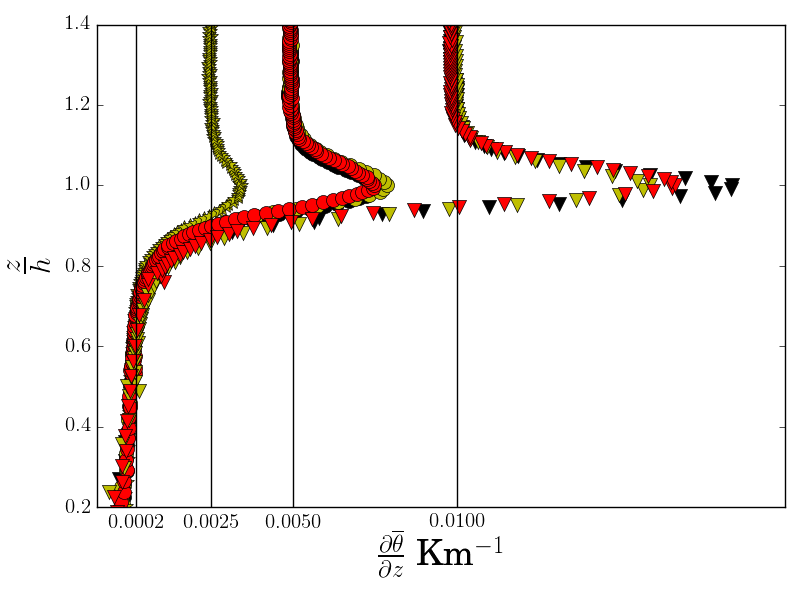
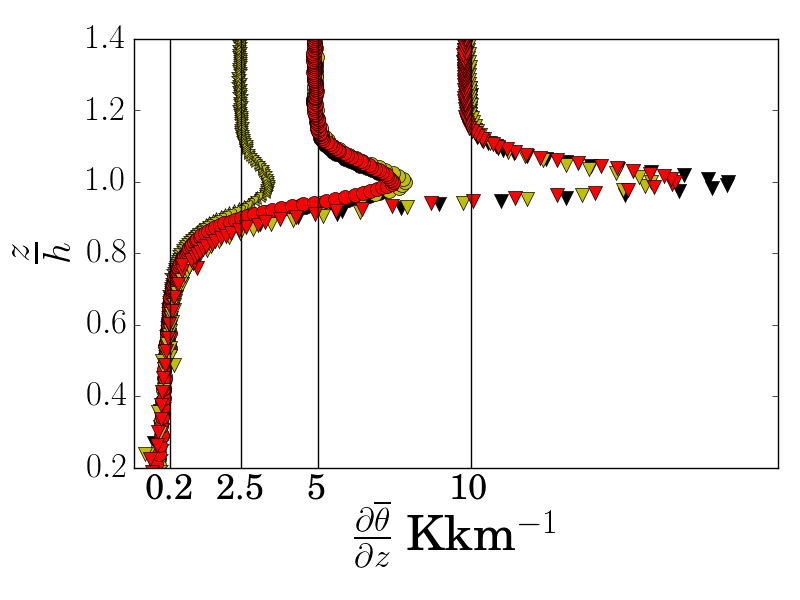
redid Figure 8 a, reordered fig 8 ie added more minipages

Changed region(s): [[0.0, 0.03, 1.0, 0.96]]

diff --git a/nchap_sub.tex b/nchap_sub.tex
@@ -562,23 +562,42 @@ The importance of $\gamma$ is revealed again as the curves representing Equation
 \begin{figure}[htbp]
 \begin{minipage}[b]{0.5\linewidth}
          
-        \subfloat[]{\label{main:a}
+        \subfloat[]{\label{main:}
                 \includegraphics[scale=.3]{figures/theta_grad_profs}}\\
-        \subfloat[]{\label{main:c}
+%        \subfloat[]{\label{main:}
+%                \includegraphics[scale=.3]{figures/scaleddeltahinvri}}\\
+                     
+\end{minipage}             
+\quad
+\begin{minipage}[b]{0.5\linewidth}
+        \subfloat[]{\label{main:}        
+         
+                \includegraphics[scale=.3]{figures/scaled_theta_grad_profs}}\\      
+%        \subfloat[]{\label{main:}          
+          
+%                \includegraphics[scale=.3]{figures/loglog_scaleddeltahinvri_4}}\\      
+       
+        \end{minipage}
+\begin{minipage}[b]{0.5\linewidth}
+         
+%        \subfloat[]{\label{main:}
+%                \includegraphics[scale=.3]{figures/theta_grad_profs}}\\
+        \subfloat[]{\label{main:}
                 \includegraphics[scale=.3]{figures/scaleddeltahinvri}}\\
                      
 \end{minipage}             
 \quad
 \begin{minipage}[b]{0.5\linewidth}
-        \subfloat[]{\label{main:b}          
+%        \subfloat[]{\label{main:}        
          
-                \includegraphics[scale=.3]{figures/scaled_theta_grad_profs}}\\      
-        \subfloat[]{\label{main:d}          
+%                \includegraphics[scale=.3]{figures/scaled_theta_grad_profs}}\\      
+        \subfloat[]{\label{main:}          
           
                 \includegraphics[scale=.3]{figures/loglog_scaleddeltahinvri_4}}\\      
        
         \end{minipage}
-        \caption{The average (unscaled) vertical potential temperature gradient profiles for each run are plotted in (a) for comparison with the scaled versions ($\frac{\frac{\partial \overline{\theta}}{\partial z}}{\gamma}$) in (b).  The corresponding plots of $\frac{\Delta h}{h} \propto Ri_{\Delta} ^{b}$ are plotted in loglog coordinates in (c) and (d) to show how curves separate according to $\gamma$ when heights are based on the unscaled profile, and collapse when based on the scaled version.  Legend key:{\color{red} \ding{116}} 150/10 \hspace{3mm}{\color{red} \ding{108}} 150/5 \hspace{2mm} {\color{black} \ding{116}} 100/10 \hspace{2mm} {\color{black} \ding{108}} 100/5 \hspace{2mm} {\color{offyellow} \ding{116}} 60/10 \hspace{2mm} {\color{offyellow} \ding{108}} 60/5 \hspace{2mm} {\color{offyellow} \ding{72}} 60/2.5.}
+
+        \caption{The average (unscaled) vertical potential temperature gradient profiles for each run are plotted in (a) for comparison with the scaled versions ($\frac{\partial \overline{\theta}}{\partial z}/\gamma$) in (b). Solid lines show the thresholds, $\frac{\partial \overline{\theta}}{\partial z}=2$Kkm$^{-1}$ and $\frac{\partial \overline{\theta}}{\partial z}/\gamma=0.03$ respectively, used for determining the lower EZ boundary.  The corresponding plots of $\frac{\Delta h}{h} \propto Ri_{\Delta} ^{b}$ are plotted in log-log coordinates in (c) and (d) to show how curves separate according to $\gamma$ when heights are based on the unscaled profile, and collapse when based on the scaled version.  Legend key:{\color{red} \ding{116}} 150/10 \hspace{3mm}{\color{red} \ding{108}} 150/5 \hspace{2mm} {\color{black} \ding{116}} 100/10 \hspace{2mm} {\color{black} \ding{108}} 100/5 \hspace{2mm} {\color{offyellow} \ding{116}} 60/10 \hspace{2mm} {\color{offyellow} \ding{108}} 60/5 \hspace{2mm} {\color{offyellow} \ding{72}} 60/2.5.}
         \label{fig:scaleddeltahinvri}
 \end{figure}
 
